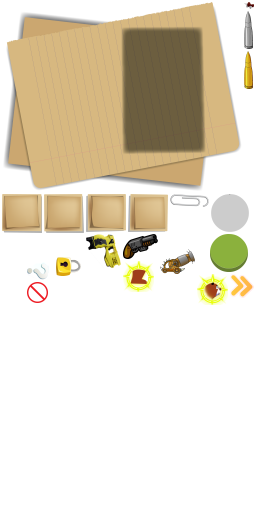
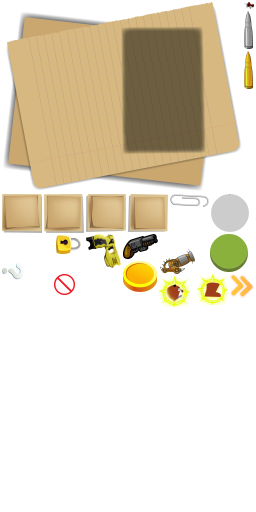
9-25

Changed region(s): [[0.0, 0.4375, 0.3125, 0.5938], [0.4688, 0.5, 0.75, 0.625], [0.7812, 0.5312, 0.875, 0.5938]]

diff --git a/ShootBear/ILPlayControl.mm b/ShootBear/ILPlayControl.mm
@@ -11,6 +11,11 @@
 #import "ILShooter.h"
 #import "CCBAnimationManager.h"
 #import "ILBox2dFactory.h"
+#import "ILDataSimpleSave.h"
+
+#define BULLET_NUMBER 4;
+
+static NSString* const kCoinAmount = @"coin_amount";
 
 @implementation ILPlayControl
 - (id)init
@@ -19,7 +24,7 @@
     if (self) {
         [[CCDirector sharedDirector].touchDispatcher addTargetedDelegate:self priority:10 swallowsTouches:NO];
         _levelControlLayer = (ILLevelControlLayer *)[CCBReader nodeGraphFromFile:@"LevelControlLayer.ccbi" owner:self];
-        _levelControlLayer.bulletNumberShow.bulletNumber = 5;
+        _levelControlLayer.bulletNumberShow.bulletNumber = BULLET_NUMBER;
         _passTime = -1;
         [self addChild:_levelControlLayer];
         _settingLayer = (CCLayer *)[CCBReader nodeGraphFromFile:@"SettingControlLayer.ccbi" owner:self];
@@ -27,10 +32,38 @@
         [self addChild:_settingLayer];
         [self configSwitch];
         [self scheduleUpdate];
+        [[NSNotificationCenter defaultCenter] addObserver:self selector:@selector(messageReceive:) name:@"coin_increase" object:nil];
 
         
     }
     return self;
+}
+
+- (void)dealloc
+{
+    [[NSNotificationCenter defaultCenter] removeObserver:self];
+    [super dealloc];
+}
+
+- (void)messageReceive:(NSNotification *)notification
+{
+    NSDictionary *dic = notification.userInfo;
+    NSString *message = dic[@"bear"];
+    if ([message isEqualToString:@"head"]) {
+        [self coinIncrease:1];
+    } else if ([message isEqualToString:@"body"]) {
+        [self coinIncrease:0.1];
+    } else if ([message isEqualToString:@"leg"]) {
+        [self coinIncrease:0.5];
+    }
+}
+
+- (void)coinIncrease:(float)amount
+{
+    float coins = [[ILDataSimpleSave sharedDataSave] floatWithKey:kCoinAmount];
+    coins += amount;
+    [[ILDataSimpleSave sharedDataSave] saveFloat:coins forKey:kCoinAmount];
+    [self updateCoinLabel];
 }
 
 
@@ -42,11 +75,17 @@
     [[CCDirector sharedDirector].touchDispatcher removeDelegate:self];
 }
 
+- (void)updateCoinLabel
+{
+    float coins = [[ILDataSimpleSave sharedDataSave] floatWithKey:kCoinAmount];
+    _coinLabel.string = [NSString stringWithFormat:@"%.1f", coins];
+}
+
 - (void)onEnter
 {
     [super onEnter];
-    _levelNO.string = [NSString stringWithFormat:@"Level:%i-%i", _level.page + 1, _level.levelNo + 1];
-
+    _levelNO.string = [NSString stringWithFormat:@"%i-%i", _level.page + 1, _level.levelNo + 1];
+    [self updateCoinLabel];
 }
 
 - (void)configSwitch
@@ -156,7 +195,7 @@
     }
     if (_levelControlLayer.bulletNumberShow.bulletNumber == 0 && !_hasRunFailedDelegate) {
         [_levelControlLayer.shrinkPanel hideMyself];
-        _passTime = 4;
+        _passTime = 5;
         [_levelControlLayer.bulletNumberShow reduceBullet];
 
     }

diff --git a/ShootBear/ILDataSimpleSave.m b/ShootBear/ILDataSimpleSave.m
@@ -1,0 +1,88 @@
+//
+//  ILDataSimpleSave.m
+//  ShootBear
+//
+//  Created by mac on 13-9-23.
+//  Copyright (c) 2013年 mac. All rights reserved.
+//
+
+#import "ILDataSimpleSave.h"
+
+static ILDataSimpleSave *_dataSimpleSave = nil;
+
+@implementation ILDataSimpleSave
+
+- (id)init
+{
+    [super init];
+    if (self) {
+        _dataSave = [[NSUserDefaults standardUserDefaults] retain];
+    }
+    return self;
+}
+
+- (void)dealloc
+{
+    [_dataSave release];
+    [super dealloc];
+}
+
++ (ILDataSimpleSave *)sharedDataSave
+{
+    static dispatch_once_t onceToken;
+    dispatch_once(&onceToken, ^{
+        if (_dataSimpleSave == nil) {
+            _dataSimpleSave = [[ILDataSimpleSave alloc] init];
+        }
+    });
+    return _dataSimpleSave;
+}
+
+- (void)saveString:(NSString *)value forKey:(NSString *)key
+{
+    [_dataSave setObject:value forKey:key];
+    [_dataSave synchronize];
+}
+
+- (void)saveInt:(int)vlaue forKey:(NSString *)key
+{
+    [_dataSave setInteger:vlaue forKey:key];
+    [_dataSave synchronize];
+
+}
+
+- (void)saveFloat:(float)value forKey:(NSString *)key
+{
+    [_dataSave setFloat:value forKey:key];
+    [_dataSave synchronize];
+
+}
+
+- (void)saveBool:(BOOL)vlaue forKey:(NSString *)key
+{
+    [_dataSave setBool:vlaue forKey:key];
+    [_dataSave synchronize];
+
+}
+
+- (NSString *)stringWithKey:(NSString *)key
+{
+    return [_dataSave stringForKey:key];
+}
+
+- (int)intWithKey:(NSString *)key
+{
+    return [_dataSave integerForKey:key];
+}
+
+- (float)floatWithKey:(NSString *)key
+{
+    return [_dataSave floatForKey:key];
+}
+
+- (BOOL)boolWithKey:(NSString *)key
+{
+    return [_dataSave boolForKey:key];
+}
+
+@end

diff --git a/ShootBear/ILLevelLayer.mm b/ShootBear/ILLevelLayer.mm
@@ -116,11 +116,20 @@
     headGood.position = position;
     [self addChild:headGood];
     [self removeBear:bear];
+    [self postMessage:@"head"];
+}
+
+- (void)postMessage:(NSString *)message
+{
+    [[NSNotificationCenter defaultCenter] postNotificationName:@"coin_increase" object:nil userInfo:@{@"bear" : message}];
+
 }
 
 - (void)bodyCollision:(ILBear *)bear bullet:(ILBullet *)bullet
 {
     [self removeBear:bear];
+    [self postMessage:@"body"];
+
 }
 
 - (void)legCollision:(ILBear *)bear bullet:(ILBullet *)bullet
@@ -133,6 +142,7 @@
     legGood.position = position;
     [self addChild:legGood];
     [self removeBear:bear];
+    [self postMessage:@"leg"];
 }
 
 - (void)switchGunType:(NSString *)gunType

diff --git a/ShootBear/ILDataSimpleSave.h b/ShootBear/ILDataSimpleSave.h
@@ -1,0 +1,29 @@
+//
+//  ILDataSimpleSave.h
+//  ShootBear
+//
+//  Created by mac on 13-9-23.
+//  Copyright (c) 2013年 mac. All rights reserved.
+//
+
+#import <Foundation/Foundation.h>
+
+@interface ILDataSimpleSave : NSObject
+{
+    @private
+    NSUserDefaults *_dataSave;
+}
+
+- (void)saveString:(NSString *)value forKey:(NSString *)key;
+- (void)saveInt:(int)vlaue forKey:(NSString *)key;
+- (void)saveFloat:(float)value forKey:(NSString *)key;
+- (void)saveBool:(BOOL)vlaue forKey:(NSString *)key;
+
+- (NSString *)stringWithKey:(NSString *)key;
+- (int)intWithKey:(NSString *)key;
+- (float)floatWithKey:(NSString *)key;
+- (BOOL)boolWithKey:(NSString *)key;
+
++ (ILDataSimpleSave *)sharedDataSave;
+
+@end

diff --git a/ShootBear/ILPlayControl.h b/ShootBear/ILPlayControl.h
@@ -45,6 +45,7 @@
     BOOL _hasRunFailedDelegate;
     float _passTime;
     CCLabelTTF *_levelNO;
+    CCLabelTTF *_coinLabel;
 }
 
 @property (assign, nonatomic) id<ILPlayControlDelegate> delegate;
@@ -54,5 +55,8 @@
 @property (assign, nonatomic)Level level;
 
 - (void)pause;
+
+- (void)coinIncrease:(float)amount;
+
 
 @end

diff --git a/ShootBear/PlayScene/ILPlayScene.mm b/ShootBear/PlayScene/ILPlayScene.mm
@@ -15,6 +15,7 @@
 #import "ILShooter.h"
 #import "ILMenuScene.h"
 #import "ILPlayControl.h"
+#import "ILDataSimpleSave.h"
 
 
 #define zBK 0
